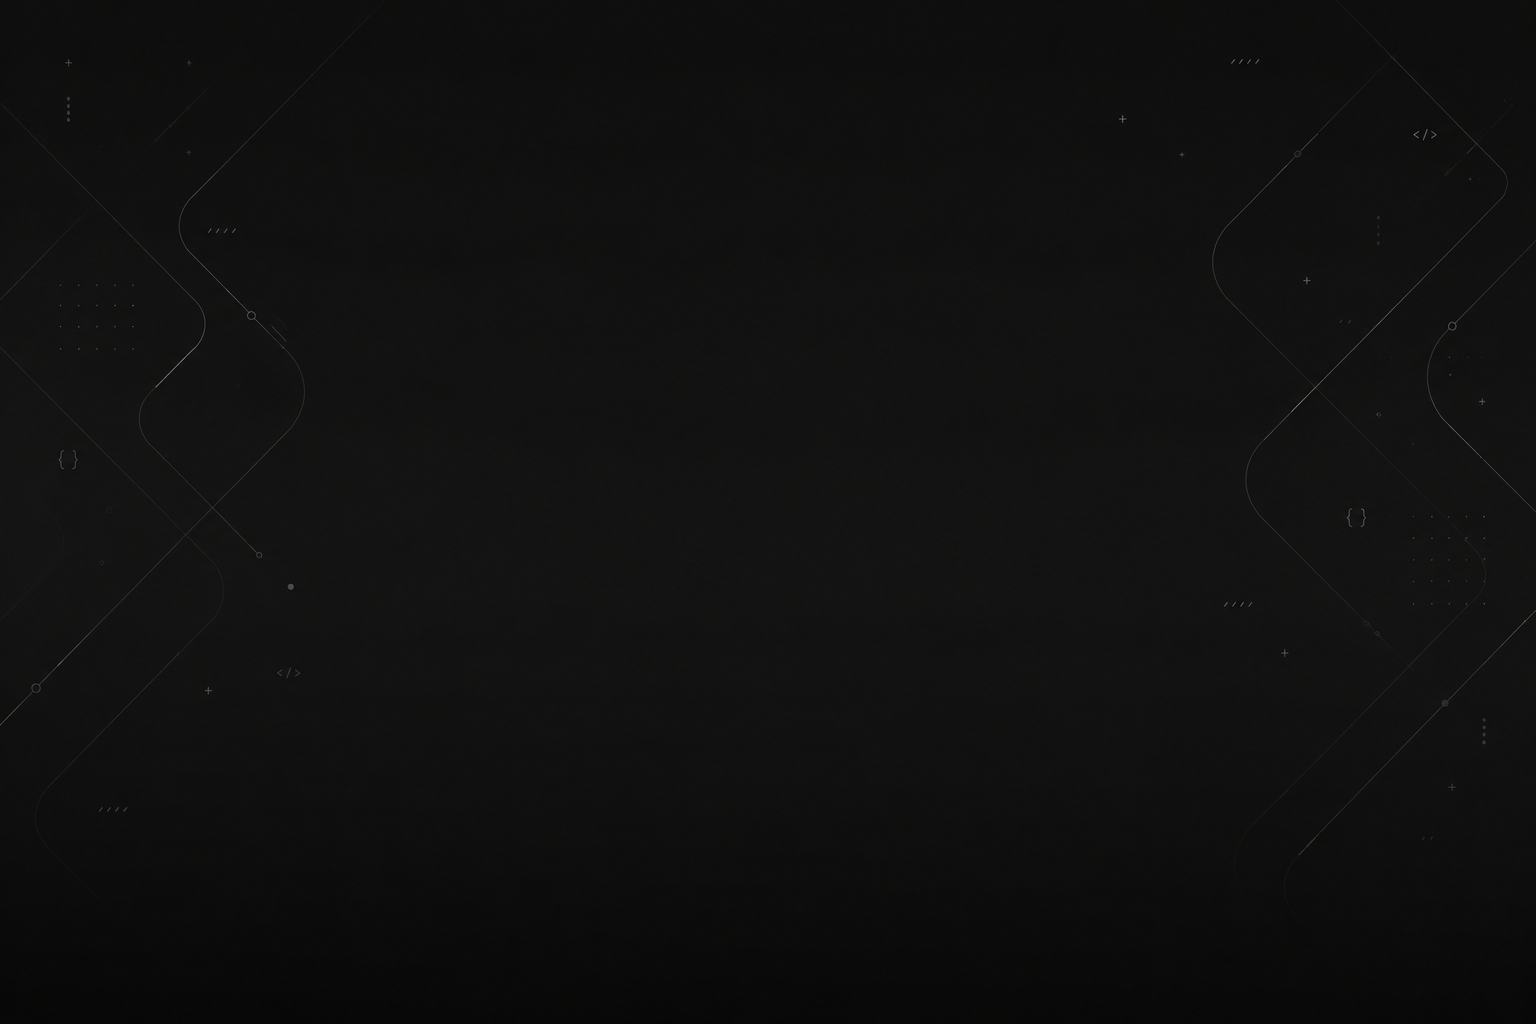
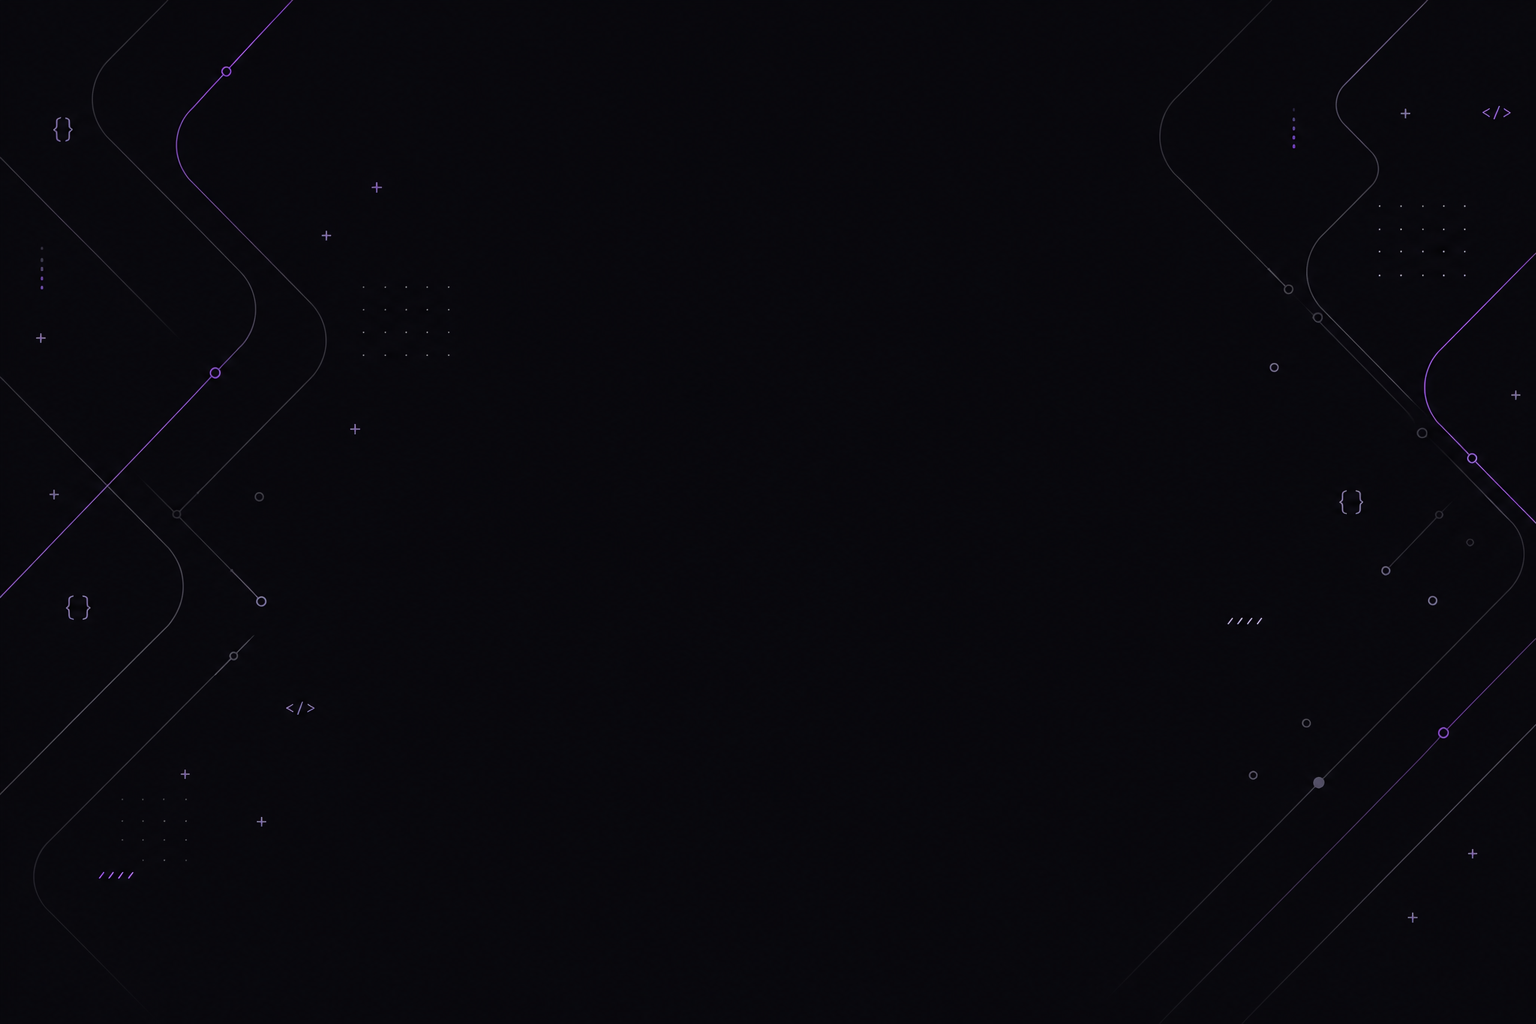
feat: redesign portfolio with dark theme and purple accent

Changed region(s): [[0.9688, 0.4688, 1.0, 0.5]]

diff --git a/css/style.css b/css/style.css
@@ -18,7 +18,7 @@ body {
   background-color: #0d0d0d;
   color: #e0e0e0;
   min-height: 100vh;
-  background-image: url('../images/background_art_04.png');
+  background-image: url('../images/background_art.png');
   background-size: cover;
   background-position: center;
 }
